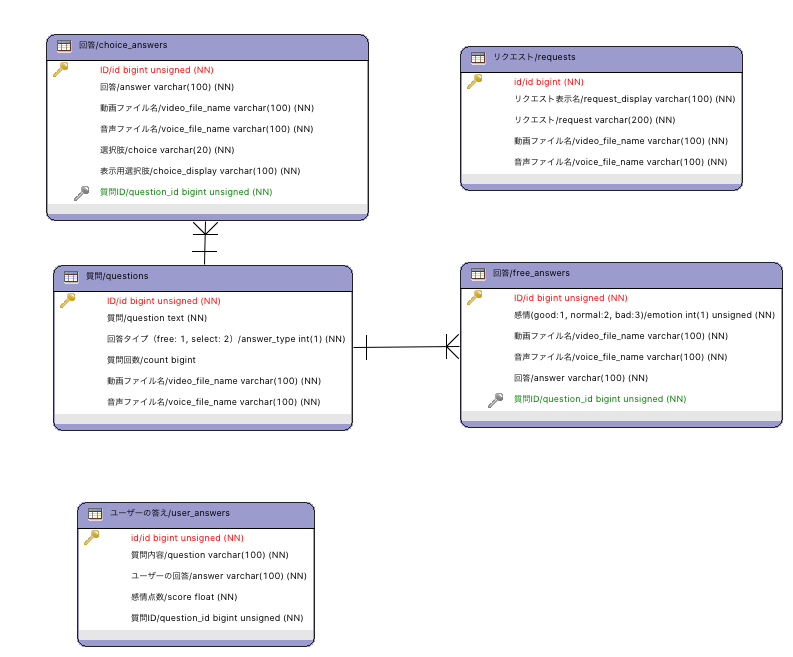
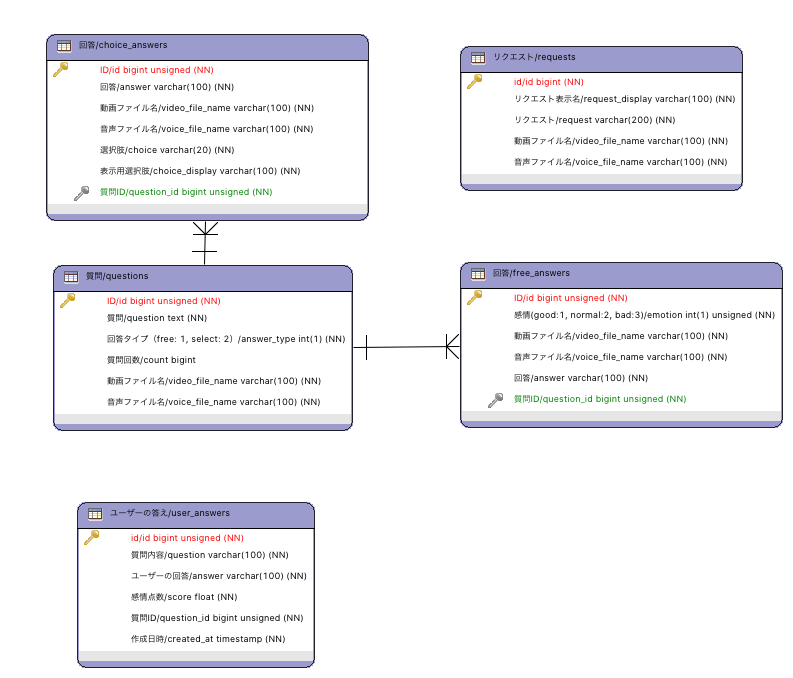
add: APIのベース

diff --git a/go/src/app/public/chart/index.html b/go/src/app/public/chart/index.html
@@ -44,7 +44,7 @@
     //データの設定
     data: {
       //データ項目のラベル
-      labels: ["1月", "2月", "3月", "4月", "5月", "6月"],
+      labels: ["", "", "", "", "", ""],
       //データセット
       datasets: [{
         //凡例

diff --git a/go/src/app/design/media/analytic.go b/go/src/app/design/media/analytic.go
@@ -1,0 +1,124 @@
+package media
+
+import (
+	. "github.com/goadesign/goa/design"
+	. "github.com/goadesign/goa/design/apidsl"
+)
+
+var GraphLineType = MediaType("application/vnd.graphLineType+json", func() {
+	Description("波線グラフ")
+	Attributes(func() {
+		Attribute("score", Number, "感情スコア", func() {
+			Example(1.2)
+		})
+	})
+	Required(
+		"score",
+	)
+	View("default", func() {
+		Attribute("score")
+		Required(
+			"score",
+		)
+	})
+})
+
+var GraphPieType = MediaType("application/vnd.graphPieType+json", func() {
+	Description("円グラフ")
+	Attributes(func() {
+		Attribute("emotion", Number, "感情", func() {
+			Example(1.2)
+		})
+		Attribute("score", Number, "感情スコア", func() {
+			Example(1.2)
+		})
+	})
+	Required(
+		"emotion",
+		"score",
+	)
+	View("default", func() {
+		Attribute("emotion")
+		Attribute("score")
+		Required(
+			"emotion",
+			"score",
+		)
+	})
+})
+
+var GraphBarType = MediaType("application/vnd.graphBarType+json", func() {
+	Description("棒グラフ")
+	Attributes(func() {
+		Attribute("emotion", Number, "感情", func() {
+			Example(1.2)
+		})
+		Attribute("score", Number, "感情スコア", func() {
+			Example(1.2)
+		})
+		Attribute("date", String, "date", func() {
+			Example("2016-10-10")
+		})
+	})
+	Required(
+		"emotion",
+		"score",
+		"date",
+	)
+	View("default", func() {
+		Attribute("emotion")
+		Attribute("score")
+		Attribute("date")
+		Required(
+			"emotion",
+			"score",
+			"date",
+		)
+	})
+})
+
+var UserAnswerType = MediaType("application/vnd.userAnswerType+json", func() {
+	Description("ユーザー回答感情分析")
+	Attributes(func() {
+		Attribute("id", Integer, "id", func() {
+			Example(1)
+		})
+		Attribute("question", String, "質問", func() {
+			Example("体調どうですか？")
+		})
+		Attribute("answer", String, "ユーザーの回答", func() {
+			Example("とても元気です")
+		})
+		Attribute("score", Number, "感情スコア", func() {
+			Example(1.2)
+		})
+		Attribute("question_id", Integer, "質問ID", func() {
+			Example(1)
+		})
+		Attribute("created_at", DateTime, "作成日時")
+	})
+	Required(
+		"id",
+		"question",
+		"answer",
+		"score",
+		"question_id",
+		"created_at",
+	)
+	View("default", func() {
+		Attribute("id")
+		Attribute("question")
+		Attribute("answer")
+		Attribute("score")
+		Attribute("question_id")
+		Attribute("created_at")
+		Required(
+			"id",
+			"question",
+			"answer",
+			"score",
+			"question_id",
+			"created_at",
+		)
+	})
+})

diff --git a/go/src/app/model/user_answers.go b/go/src/app/model/user_answers.go
@@ -1,8 +1,12 @@
 package model
 
 import (
+	"app/app"
 	"app/util"
 	"context"
+	"fmt"
+	"strconv"
+	"time"
 
 	sq "github.com/Masterminds/squirrel"
 	"github.com/goadesign/goa"
@@ -11,11 +15,12 @@ import (
 
 // UserAnswers DBカラム
 type UserAnswers struct {
-	ID         int     `db:"id"`
-	Question   string  `db:"question"`
-	Answer     string  `db:"answer"`
-	Score      float32 `db:"score"`
-	QuestionID int     `db:"question_id"`
+	ID         int       `db:"id"`
+	Question   string    `db:"question"`
+	Answer     string    `db:"answer"`
+	Score      float64   `db:"score"`
+	QuestionID int       `db:"question_id"`
+	CreatedAt  time.Time `db:"question_id"`
 }
 
 // UserAnswersDB DB
@@ -28,10 +33,27 @@ func NewUserAnswersDB(db *sqlx.DB) *UserAnswersDB {
 	return &UserAnswersDB{DB: db}
 }
 
+func (db *UserAnswersDB) GetList(ctx context.Context) ([]UserAnswers, error) {
+	sql, prepare, err := sq.Select("*").
+		From("user_answers").
+		OrderBy("created_at", "desc").
+		ToSql()
+	if err != nil {
+		goa.LogError(ctx, "UserAnswersDB GetList Error 1: err", "err", err)
+		return []UserAnswers{}, err
+	}
+	ua := []UserAnswers{}
+	err = db.DB.Select(&ua, sql, prepare...)
+	if err != nil {
+		goa.LogError(ctx, "UserAnswersDB GetList Error 2: err", "err", err)
+		return []UserAnswers{}, err
+	}
+	return ua, nil
+}
+
 // Add Insert
 func (db *UserAnswersDB) Add(ctx context.Context, a UserAnswers) error {
-	sql, prepare, err := sq.
-		Insert("user_answers").
+	sql, prepare, err := sq.Insert("user_answers").
 		Columns(
 			"question",
 			"answer",
@@ -60,7 +82,8 @@ func (db *UserAnswersDB) AddAnalysis(ctx context.Context, a UserAnswers) {
 		goa.LogError(ctx, "UserAnswerDB AddAnalysis Error 1: err", "err", err)
 		return
 	}
-	a.Score = s.DocumentSentiment.GetScore()
+	score := s.DocumentSentiment.GetScore()
+	a.Score, err = strconv.ParseFloat(fmt.Sprint(score), 64)
 	if err != nil {
 		goa.LogError(ctx, "UserAnswerDB AddAnalysis Error 2: err", "err", err)
 		return
@@ -71,4 +94,15 @@ func (db *UserAnswersDB) AddAnalysis(ctx context.Context, a UserAnswers) {
 		return
 	}
 	goa.LogInfo(ctx, "UserAnswerDB AddAnalysis OK: insert", "insert", a)
+}
+
+func (ua UserAnswers) UserAnswerToUserAnswertype() app.Useranswertype {
+	u := app.Useranswertype{}
+	u.ID = ua.ID
+	u.Score = ua.Score
+	u.Answer = ua.Answer
+	u.Question = ua.Question
+	u.CreatedAt = ua.CreatedAt
+	u.QuestionID = ua.QuestionID
+	return u
 }

diff --git a/go/src/app/controller/analytic.go b/go/src/app/controller/analytic.go
@@ -1,0 +1,66 @@
+package controller
+
+import (
+	"app/app"
+
+	"github.com/goadesign/goa"
+	"github.com/jmoiron/sqlx"
+)
+
+// AnalyticController implements the analytic resource.
+type AnalyticController struct {
+	*goa.Controller
+	db *sqlx.DB
+}
+
+// NewAnalyticController creates a analytic controller.
+func NewAnalyticController(service *goa.Service, db *sqlx.DB) *AnalyticController {
+	return &AnalyticController{
+		Controller: service.NewController("AnalyticController"),
+		db:         db,
+	}
+}
+
+// ListUserAnswer runs the ListUserAnswer action.
+func (c *AnalyticController) ListUserAnswer(ctx *app.ListUserAnswerAnalyticContext) error {
+	// AnalyticController_ListUserAnswer: start_implement
+
+	// Put your logic here
+
+	// AnalyticController_ListUserAnswer: end_implement
+	res := app.UseranswertypeCollection{}
+	return ctx.OK(res)
+}
+
+// ShowGraphBar runs the ShowGraphBar action.
+func (c *AnalyticController) ShowGraphBar(ctx *app.ShowGraphBarAnalyticContext) error {
+	// AnalyticController_ShowGraphBar: start_implement
+
+	// Put your logic here
+
+	// AnalyticController_ShowGraphBar: end_implement
+	res := &app.Graphbartype{}
+	return ctx.OK(res)
+}
+
+// ShowGraphLine runs the ShowGraphLine action.
+func (c *AnalyticController) ShowGraphLine(ctx *app.ShowGraphLineAnalyticContext) error {
+	// AnalyticController_ShowGraphLine: start_implement
+
+	// Put your logic here
+
+	// AnalyticController_ShowGraphLine: end_implement
+	res := &app.Graphlinetype{}
+	return ctx.OK(res)
+}
+
+// ShowGraphPie runs the ShowGraphPie action.
+func (c *AnalyticController) ShowGraphPie(ctx *app.ShowGraphPieAnalyticContext) error {
+	// AnalyticController_ShowGraphPie: start_implement
+
+	// Put your logic here
+
+	// AnalyticController_ShowGraphPie: end_implement
+	res := &app.Graphpietype{}
+	return ctx.OK(res)
+}

diff --git a/go/src/app/design/resource/analytic.go b/go/src/app/design/resource/analytic.go
@@ -1,0 +1,45 @@
+package resource
+
+import (
+	. "app/design/constant"
+	"app/design/media"
+
+	. "github.com/goadesign/goa/design"
+	. "github.com/goadesign/goa/design/apidsl"
+)
+
+var _ = Resource("analytic", func() {
+	BasePath("/api/analytic")
+	Action("ShowGraphLine", func() {
+		Description("感情分析データ(波線グラフ)")
+		Routing(
+			GET("graph/line"),
+		)
+		Response(OK, media.GraphLineType)
+		UseTrait(GeneralUserTrait)
+	})
+	Action("ShowGraphPie", func() {
+		Description("感情分析データ(円グラフ)")
+		Routing(
+			GET("graph/pie"),
+		)
+		Response(OK, media.GraphPieType)
+		UseTrait(GeneralUserTrait)
+	})
+	Action("ShowGraphBar", func() {
+		Description("感情分析データ(棒グラフ)")
+		Routing(
+			GET("graph/bar"),
+		)
+		Response(OK, media.GraphBarType)
+		UseTrait(GeneralUserTrait)
+	})
+	Action("ListUserAnswer", func() {
+		Description("感情分析データ(時系列)")
+		Routing(
+			GET("user_answer"),
+		)
+		Response(OK, CollectionOf(media.UserAnswerType))
+		UseTrait(GeneralUserTrait)
+	})
+})

diff --git a/go/src/app/server.go b/go/src/app/server.go
@@ -64,6 +64,9 @@ func (s *Server) mountController() {
 	// Mount "ws" controller
 	ws := controller.NewWsController(s.service, s.ws)
 	app.MountWsController(s.service, ws)
+	// Mount "analytic" controller
+	analytic := controller.NewAnalyticController(s.service, s.mysql)
+	app.MountAnalyticController(s.service, analytic)
 }
 
 func (s *Server) mountMiddleware(env string) {
